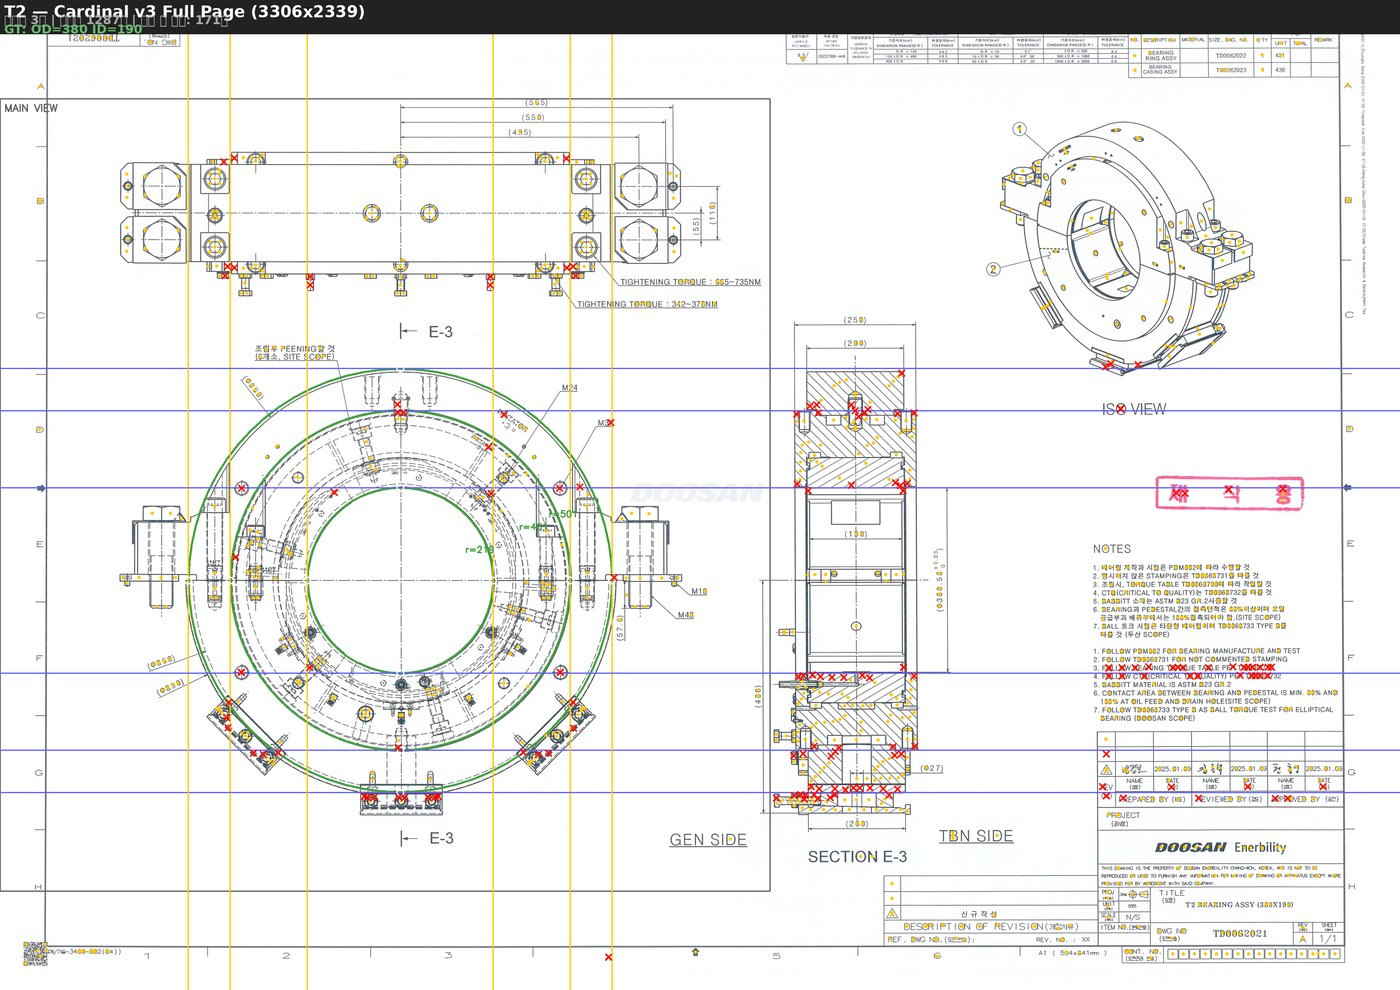
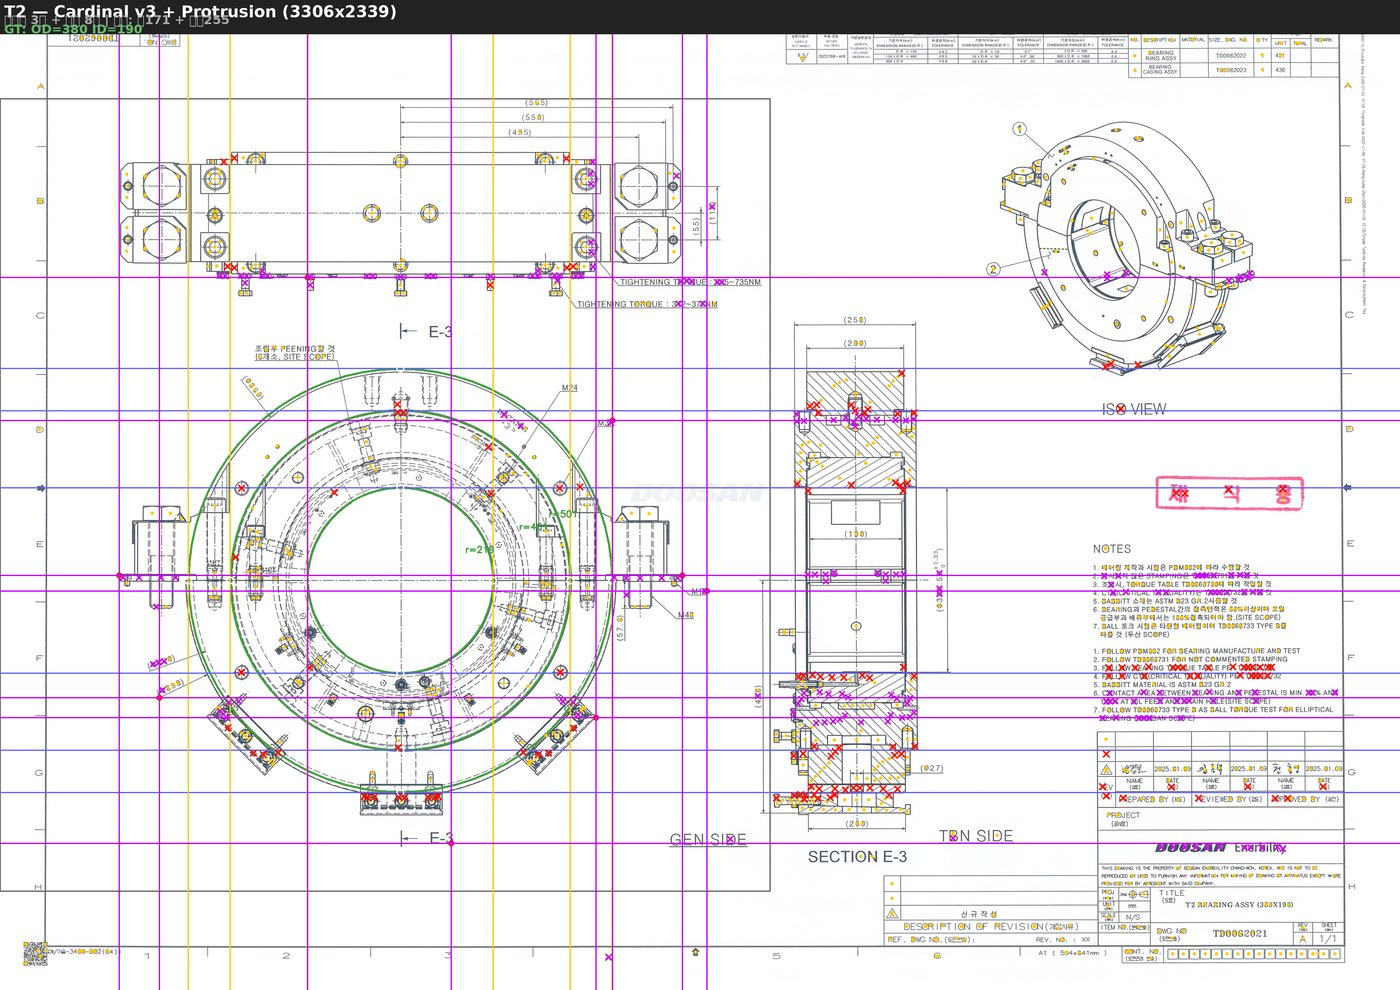
feat(S08): Cardinal v3 돌출부 투사 통합 — 보라 직선으로 플랜지 화살촉 추가
동심원 끝점(시안/노랑) + 돌출부 끝점(보라) 직선을 전체 도면에서 투사.
돌출부 Radial Scan → 끝점 7~8개 → 수평+수직 직선 → SECTION 화살촉 매칭.
T1: 원196+돌출236, T2: 원171+돌출255 히트.

diff --git a/blueprint-ai-bom/scripts/s08_cardinal_v3_fullpage.py b/blueprint-ai-bom/scripts/s08_cardinal_v3_fullpage.py
@@ -120,8 +120,47 @@ def detect_arrowheads(gray, min_area=50, max_area=1500):
     return arrows
 
 
+def radial_edge_scan(gray, cx, cy, outer_r, n_angles=360):
+    """중심에서 방사 스캔 → 돌출부 끝점 검출"""
+    h, w = gray.shape
+    max_scan_r = int(outer_r * 1.5)
+    blurred = cv2.GaussianBlur(gray, (5, 5), 1.5)
+    edges = cv2.Canny(blurred, 50, 150)
+
+    profile = []
+    for i in range(n_angles):
+        angle_rad = np.radians(i * 360.0 / n_angles)
+        dx, dy = np.cos(angle_rad), np.sin(angle_rad)
+        max_r_found = 0
+        max_x, max_y = int(cx), int(cy)
+        for r_px in range(int(outer_r * 0.8), max_scan_r):
+            px = int(cx + r_px * dx)
+            py = int(cy + r_px * dy)
+            if 0 <= px < w and 0 <= py < h and edges[py, px] > 0:
+                max_r_found = r_px
+                max_x, max_y = px, py
+        profile.append((i * 360.0 / n_angles, max_r_found, max_x, max_y))
+
+    # 돌출 = 외원 × 1.05 초과
+    protrusions = [p for p in profile if p[1] > outer_r * 1.05]
+
+    # 클러스터링 → 끝점
+    if not protrusions:
+        return []
+    sorted_p = sorted(protrusions, key=lambda p: p[0])
+    groups, cur = [], [sorted_p[0]]
+    for i in range(1, len(sorted_p)):
+        if sorted_p[i][0] - sorted_p[i - 1][0] <= 10:
+            cur.append(sorted_p[i])
+        else:
+            groups.append(cur)
+            cur = [sorted_p[i]]
+    groups.append(cur)
+    return [max(g, key=lambda p: p[1]) for g in groups]
+
+
 def run():
-    print("S08 Cardinal v3 — 전체 도면 투사")
+    print("S08 Cardinal v3 — 전체 도면 투사 + 돌출부")
     print("=" * 60)
 
     for doc_id, gt in GT.items():
@@ -144,89 +183,104 @@ def run():
         roi_h, roi_w = roi_gray.shape
         min_r = int(min(roi_h, roi_w) * MIN_R_RATIO)
         max_r = int(min(roi_h, roi_w) * MAX_R_RATIO)
-        print(f"  메인 뷰 ROI: ({rx1},{ry1})-({rx2},{ry2}) = {roi_w}x{roi_h}")
 
-        # 2. 동심원 검출 (ROI 좌표)
+        # 2. 동심원 검출
         circles_roi = detect_concentric_alt(roi_gray, min_r, max_r)
-        print(f"  동심원: {len(circles_roi)}개")
+        circles_full = [(cx + rx1, cy + ry1, r) for cx, cy, r in circles_roi]
+        print(f"  동심원: {len(circles_full)}개")
 
-        # ROI → 전체 도면 좌표로 변환
-        circles_full = [(cx + rx1, cy + ry1, r)
-                        for cx, cy, r in circles_roi]
-        for cx, cy, r in circles_full:
-            print(f"    ({cx:.0f},{cy:.0f}) r={r:.0f}")
+        if not circles_full:
+            continue
 
-        # 3. 전체 도면에서 화살촉 검출
+        # 3. 돌출부 검출 (ROI 좌표 → 전체 좌표)
+        outer_r = max(c[2] for c in circles_roi)
+        ccx_roi, ccy_roi = circles_roi[0][0], circles_roi[0][1]
+        protrusion_peaks = radial_edge_scan(roi_gray, ccx_roi, ccy_roi, outer_r)
+        # ROI → 전체 도면 좌표
+        peaks_full = [(p[0], p[1], p[2] + rx1, p[3] + ry1) for p in protrusion_peaks]
+        print(f"  돌출 끝점: {len(peaks_full)}개")
+
+        # 4. 전체 도면 화살촉
         arrows = detect_arrowheads(gray)
         print(f"  화살촉 후보: {len(arrows)}개")
 
-        # 4. 시각화 — 전체 도면 위에 직선 + 화살촉
+        # 5. 시각화
         canvas = img.copy()
+        ccx, ccy = circles_full[0][0], circles_full[0][1]
 
         # 동심원 (초록)
         for cx, cy, r in circles_full:
             cv2.circle(canvas, (int(cx), int(cy)), int(r), (67, 160, 71), 3)
 
-        # 메인 뷰 영역 박스 (점선 효과)
+        # 메인 뷰 박스
         cv2.rectangle(canvas, (rx1, ry1), (rx2, ry2), (100, 100, 100), 2)
-        cv2.putText(canvas, "MAIN VIEW", (rx1 + 10, ry1 + 30),
-                    cv2.FONT_HERSHEY_SIMPLEX, 0.8, (100, 100, 100), 2)
 
-        # 화살촉 후보 (작은 노란 점)
+        # 화살촉 (노란 점)
         for arrow in arrows:
             cv2.circle(canvas, (int(arrow["x"]), int(arrow["y"])), 4,
                        (0, 200, 255), -1)
 
-        # 각 끝점에서 접선 직선 (전체 도면 가로지름)
-        dir_colors = {
-            "N": (255, 100, 100),
-            "S": (255, 100, 100),
-            "E": (0, 200, 255),
-            "W": (0, 200, 255),
-        }
-
-        hit_count = 0
+        # ── 동심원 끝점 직선 (시안/노랑) ──
+        dir_colors = {"N": (255, 100, 100), "S": (255, 100, 100),
+                      "E": (0, 200, 255), "W": (0, 200, 255)}
+        circle_hit = 0
         for cx, cy, r in circles_full:
             for dir_name, ddx, ddy, axis in [
                 ("N", 0, -1, "h"), ("S", 0, 1, "h"),
                 ("E", 1, 0, "v"), ("W", -1, 0, "v"),
             ]:
-                px = int(cx + r * ddx)
-                py = int(cy + r * ddy)
+                px, py = int(cx + r * ddx), int(cy + r * ddy)
                 color = dir_colors[dir_name]
-
-                # 접선 직선 — 전체 도면 폭/높이
                 if axis == "h":
                     cv2.line(canvas, (0, py), (full_w, py), color, 2)
                 else:
                     cv2.line(canvas, (px, 0), (px, full_h), color, 2)
-
-                # 끝점 마커
                 cv2.circle(canvas, (px, py), 8, (255, 255, 255), 2)
 
-                # 직선 위 화살촉 히트
                 for arrow in arrows:
                     ax, ay = arrow["x"], arrow["y"]
-                    if axis == "h":
-                        if abs(ay - py) <= 15:
-                            dist_to_center = np.sqrt(
-                                (ax - cx) ** 2 + (ay - cy) ** 2)
-                            if dist_to_center < r * 0.9:
-                                continue
-                            cv2.drawMarker(
-                                canvas, (int(ax), int(ay)),
-                                (0, 0, 255), cv2.MARKER_TILTED_CROSS, 15, 2)
-                            hit_count += 1
-                    else:
-                        if abs(ax - px) <= 15:
-                            dist_to_center = np.sqrt(
-                                (ax - cx) ** 2 + (ay - cy) ** 2)
-                            if dist_to_center < r * 0.9:
-                                continue
-                            cv2.drawMarker(
-                                canvas, (int(ax), int(ay)),
-                                (0, 0, 255), cv2.MARKER_TILTED_CROSS, 15, 2)
-                            hit_count += 1
+                    if axis == "h" and abs(ay - py) <= 15:
+                        if np.sqrt((ax - cx)**2 + (ay - cy)**2) < r * 0.9:
+                            continue
+                        cv2.drawMarker(canvas, (int(ax), int(ay)),
+                                       (0, 0, 255), cv2.MARKER_TILTED_CROSS, 15, 2)
+                        circle_hit += 1
+                    elif axis == "v" and abs(ax - px) <= 15:
+                        if np.sqrt((ax - cx)**2 + (ay - cy)**2) < r * 0.9:
+                            continue
+                        cv2.drawMarker(canvas, (int(ax), int(ay)),
+                                       (0, 0, 255), cv2.MARKER_TILTED_CROSS, 15, 2)
+                        circle_hit += 1
+
+        # ── 돌출 끝점 직선 (보라) ──
+        protrusion_hit = 0
+        for angle, r_val, px, py in peaks_full:
+            # 돌출 끝점 마커 (빨간 다이아몬드)
+            cv2.drawMarker(canvas, (px, py),
+                           (0, 0, 255), cv2.MARKER_DIAMOND, 15, 3)
+
+            # 수평선 + 수직선 (보라)
+            pcolor = (255, 0, 200)
+            cv2.line(canvas, (0, py), (full_w, py), pcolor, 2)
+            cv2.line(canvas, (px, 0), (px, full_h), pcolor, 2)
+
+            # 직선 위 화살촉 히트
+            for arrow in arrows:
+                ax, ay = arrow["x"], arrow["y"]
+                hit = False
+                if abs(ay - py) <= 15:
+                    if np.sqrt((ax - ccx)**2 + (ay - ccy)**2) > outer_r * 0.9:
+                        hit = True
+                if abs(ax - px) <= 15:
+                    if np.sqrt((ax - ccx)**2 + (ay - ccy)**2) > outer_r * 0.9:
+                        hit = True
+                if hit:
+                    cv2.drawMarker(canvas, (int(ax), int(ay)),
+                                   (255, 0, 200), cv2.MARKER_TILTED_CROSS, 12, 2)
+                    protrusion_hit += 1
+
+        print(f"  동심원 직선 히트: {circle_hit}개")
+        print(f"  돌출부 직선 히트: {protrusion_hit}개")
 
         # 반지름 라벨
         for cx, cy, r in circles_full:
@@ -236,9 +290,9 @@ def run():
 
         pil = add_header(
             canvas,
-            f"{name.upper()} — Cardinal v3 Full Page ({full_w}x{full_h})",
-            f"동심원 {len(circles_full)}개 | 화살촉 {len(arrows)}개 | "
-            f"직선 위 히트: {hit_count}개",
+            f"{name.upper()} — Cardinal v3 + Protrusion ({full_w}x{full_h})",
+            f"동심원 {len(circles_full)}개 + 돌출 {len(peaks_full)}개 | "
+            f"히트: 원{circle_hit} + 돌출{protrusion_hit}",
             f"GT: OD={gt['od']} ID={gt['id']}",
         )
         save_pil(pil, f"{name}_cardinal_v3_full.jpg")
